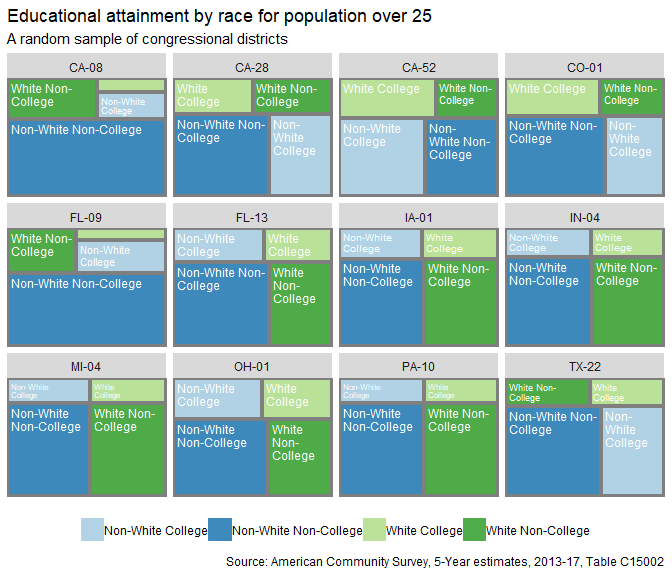
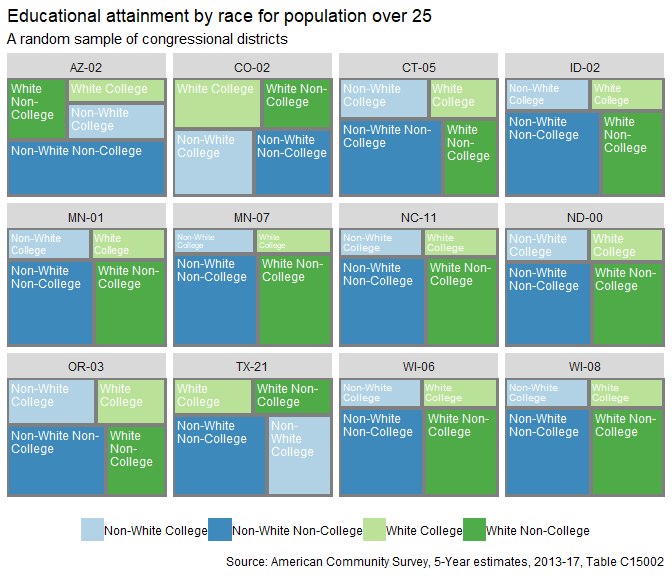
re

Changed region(s): [[0.0, 0.0938, 1.0, 0.625], [0.0, 0.625, 1.0, 0.875]]

diff --git a/README.md b/README.md
@@ -129,7 +129,7 @@ rvoteview_house_50 <- lapply(c(66:115), function (x)
   mutate(name = paste0 (gsub(', .*$', '', bioname), ' ', cqlabel))
 ```
 
-#### 2.1 Congressional composition
+#### 2.1 Congressional composition by political affiliation
 
 ``` r
 rvoteview_house_50 %>%
@@ -306,7 +306,9 @@ dailykos_pres_elections <- keeps [,c('District', 'Code', grep('President_[A-z]',
 | Alabama 5th | 0105  | 2016 | Clinton   |     31.3|
 | Alabama 6th | 0106  | 2016 | Clinton   |     26.1|
 
-#### 4.2 Presidential Election results - 2016
+#### 4.2 Presidential election results by distirct - 2016
+
+> **Trump vote margin** by congressional district = Trump vote share (%) - Clinton vote share (%)
 
 ``` r
 us_house_districts %>%
@@ -419,9 +421,7 @@ us_house_districts %>%
   mutate(per = estimate / summary_est) %>%
   ggplot() + 
   geom_sf(aes(fill = per)) + 
-  
   scale_fill_distiller(palette = "BrBG", direction=1)+
-  
   theme(axis.title.x=element_blank(),
         axis.text.x=element_blank(),
         axis.title.y=element_blank(),
@@ -433,9 +433,9 @@ us_house_districts %>%
 
 ![](README_files/figure-markdown_github/unnamed-chunk-23-1.png)
 
-#### 5.3 Educational attainment profiles for congressional districts
+#### 5.3 Race & educational attainment profiles by district
 
-> Often ... these comparisons ... not formal census categories, and require some aggregation.
+> Profiling congressional districts in terms of race/ethncitiy & educational attainment. Categories include *White with college degree*, *White without college degree*, *Non-White with college degree*, and *Non-White without college degree*. The **Non-White** population is defined more specifically as non-White (race) & non-Hispanic (ethnicity).
 
 ``` r
 tree <- tidycens_data %>%
@@ -455,7 +455,7 @@ tree <- tidycens_data %>%
   ungroup()
 ```
 
-> A random sample of congressional districts:
+> Race & educational attainment profiles for a random sample of congressional districts:
 
 ``` r
 samp_n <- sample(unique(tree$GEOID), 12)
@@ -485,9 +485,9 @@ tree %>%
 
 ![](README_files/figure-markdown_github/unnamed-chunk-25-1.png)
 
-#### 5.4 Trump support by educational attainment
+#### 5.4 White working class & Republican vote shares historically
 
-> Thoughts.
+> A comparison of the relationship between the share of working class Whites and share of Republican candidate support by district for the last three presidential elections.
 
 ``` r
 by_pres <- dailykos_pres_elections %>%
@@ -532,7 +532,7 @@ by_pres %>%
 
 ### 6 Alternative political geometries
 
-> The Daily Kos makes available of set of shapefiles meant to represent congressional districts and states as .... The Daily Vos makes these shapefiles availble via Google Drive. Links are provided below.
+> The Daily Kos makes available a set of alternative geometries that represent congressional districts and states as equal-area polygons. As some of the maps presented above attest, America's larger states and congressional districts tend to overwhelm a traditional map, and collectively serve to under-represent/hide smaller, more populous urban areas.
 
 ``` r
 base <- 'https://drive.google.com/uc?authuser=0&id='
